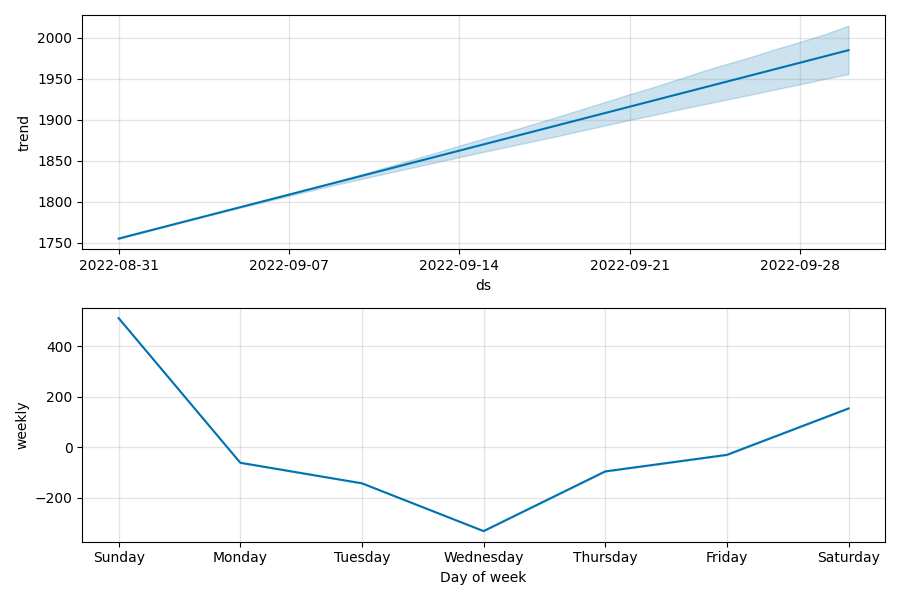
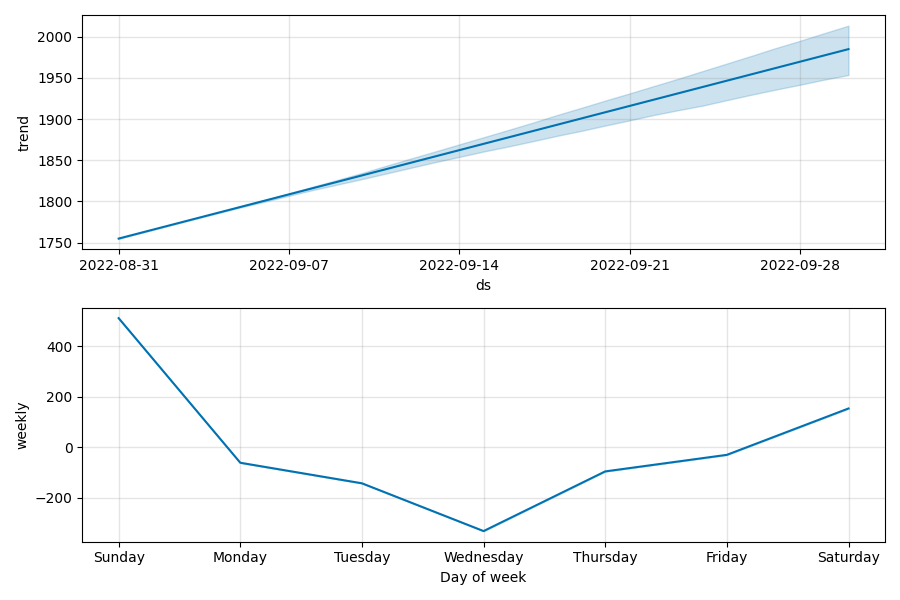
bakery model done

diff --git a/ML/model.py b/ML/model.py
@@ -7,8 +7,8 @@ from prophet import Prophet
 
 df = pd.read_csv("data/processed/processed_bakery.csv")
 
-# df_subset = df[["ds", "y"]].copy()
-df_subset = df[["ds", "y", "is_weekend"]].copy()
+df_subset = df[["ds", "y"]].copy()
+# df_subset = df[["ds", "y", "is_weekend"]].copy()
 
 
 # print(df_subset.head())
@@ -23,7 +23,7 @@ test_data = df_subset[df_subset['ds'] >= limit_date]
 # print(test_data)
 
 # model = Prophet()
-model = Prophet(changepoint_prior_scale=0.1)
+model = Prophet(changepoint_prior_scale=0.01)
 
 # model.add_regressor('is_weekend')
 model.fit(train_data)
@@ -35,15 +35,15 @@ forecast_subset= forecast[['ds','yhat', 'yhat_lower', 'yhat_upper']]
 # print(forecast_subset.head())
 
 mse = mean_squared_error(test_data['y'], forecast_subset['yhat'])
-
 print(mse)
 
-mae = mean_absolute_error(test_data['y'], forecast_subset['yhat'])
+rmse = np.sqrt(mse)
+print(f"RMSE: {rmse}")
 
+mae = mean_absolute_error(test_data['y'], forecast_subset['yhat'])
 print(mae)
 
 mape = mean_absolute_percentage_error(test_data['y'], forecast_subset['yhat'])
-
 print(mape)
 
 fig1 = model.plot(forecast)

diff --git a/ML/learning_notes.md b/ML/learning_notes.md
@@ -221,3 +221,19 @@ Opting for Google Colaboratory circumvents local provisioning requirements throu
      - `model = Prophet(changepoint_prior_scale=0.1)`: Instantiates the model with a higher flexibility than the default (`0.05`). 
 2. **Empirical Outcome (Overfitting):**
    - By increasing the scale to `0.1` (without the redundant regressor), the MAE increased from `1041.70` (the default baseline) to `1129.28`. This indicates that giving the model *more* freedom to bend its trend actually caused it to overfit the training data, ultimately performing worse on the unseen test set.
+
+---
+
+## Task 9: Achieving Generalization (Reducing Flexibility)
+
+**What we did:** We reduced the `changepoint_prior_scale` hyperparameter down to `0.01` to make the Prophet trend more rigid and prevent overfitting.
+
+### Technical Breakdown: Generalization
+
+1. **Combating Overfitting:**
+   - **What it is:** By lowering the prior scale, we enforce a strong regularization penalty on trend changes. The model is forced to ignore local fluctuations and capture only the global structural movement of the time series.
+   - **Syntax Breakdown:**
+     - `model = Prophet(changepoint_prior_scale=0.01)`: Instantiates the model with highly restricted trend flexibility.
+2. **Empirical Outcome (Massive Improvement):**
+   - The MAE plummeted from the baseline of `1041.70` all the way down to **`448.89`**. 
+   - By stopping the model from chasing noise in the training set, it generalized significantly better to the unseen 30-day test set. This proves that for this specific bakery dataset, the long-term trend is very stable, and high flexibility is detrimental.
